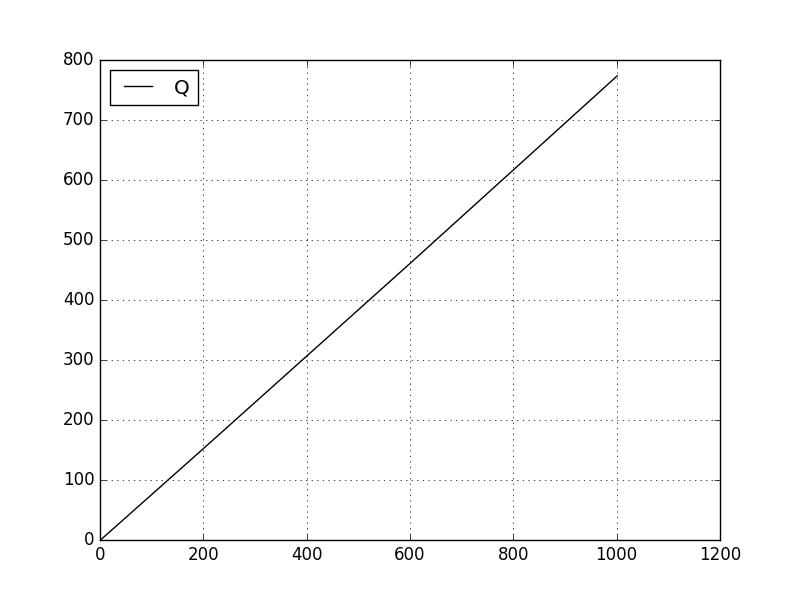
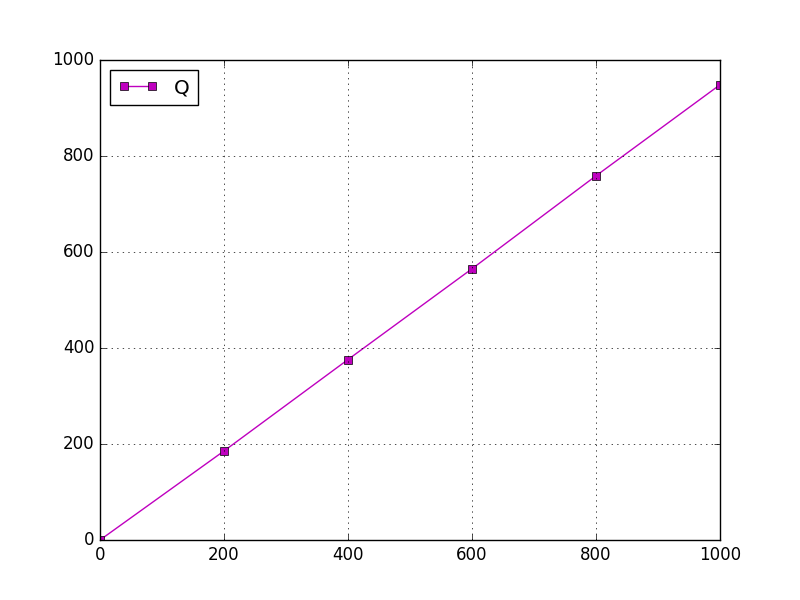
adding final pictures and final code

diff --git a/src/estimator.cpp b/src/estimator.cpp
@@ -7,16 +7,12 @@ struct simulation {
 };
 
 //params:
-#define LB 1 //lower_bound opt
-#define EL 2 //eom-lee opt
-#define SC 3 //schoute
+const int t_init = 100; //tags iniciais
+const int t_inc = 100; //incremento do numero de tags
+const int t_max = 1000; //maximo de tags
 
-const int t_init = 1; //tags iniciais
-const int t_inc = 200; //incremento do numero de tags
-const int t_max = 1001; //maximo de tags
-
-const int f_init = 128; //frame size inicial
-const int rep = 1000; //simulações
+const int f_init = 64; //frame size inicial
+const int rep = 2000; //simulações
 
 const double EPS = 1e-3;
 
@@ -92,6 +88,7 @@ simulation dfsa(int opt) {
 
 simulation Q() {
     double Q = 4.0, Qfp = Q, prevQ = Q, cc = 0.21183, ci = 0.15;
+    //cc = ci = 0.2; //se nao for o fast!
 
     int totCollisions = 0, totEmpty = 0, totSlots = 0;
     int cur = 0;

diff --git a/src/plot.py b/src/plot.py
@@ -31,7 +31,7 @@ if (cmd == "1"):
     plt.plot(axis, lb_slots, 'g^--', label="lower_bound")
     plt.plot(axis, el_slots, 'bs--', label="eom-lee")
     plt.plot(axis, sc_slots, 'ro--', label="schoute")
-    # plt.plot(axis, q_slots, 'k-', label="Q")
+    # plt.plot(axis, q_slots, 'mo-', label="Fast Q")
 elif (cmd == "2"):
     plt.plot(axis, lb_time, 'g^--', label="lower_bound")
     plt.plot(axis, el_time, 'bs--', label="eom-lee")
@@ -44,7 +44,7 @@ elif (cmd == "4"):
     plt.plot(axis, lb_cols, 'g^--', label="lower_bound")
     plt.plot(axis, el_cols, 'bs--', label="eom-lee")
     plt.plot(axis, sc_cols, 'ro--', label="schoute")
-    # plt.plot(axis, q_cols, 'k-', label="Q")
+    # plt.plot(axis, q_cols, 'mo-', label="Fast Q")
 
 plt.legend(loc=2)
 plt.grid(True)
